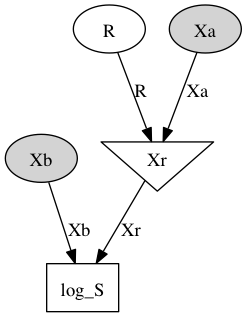
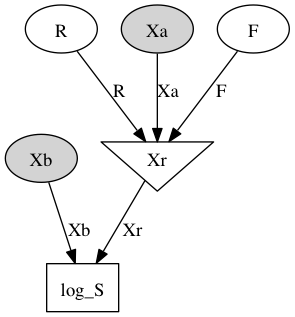
Update models to reflect same/flipped rather than same/different

diff --git a/lib/mental_rotation/model/hill_climbing_model.py b/lib/mental_rotation/model/hill_climbing_model.py
@@ -13,7 +13,7 @@ class HillClimbingModel(BaseModel):
     # Overwritten PyMC sampling methods
 
     def sample(self, verbose=0):
-        super(BaseModel, self).sample(iter=360, verbose=verbose)
+        super(BaseModel, self).sample(iter=720, verbose=verbose)
 
         if self._current_iter == self._iter: # pragma: no cover
             raise RuntimeError(
@@ -21,6 +21,7 @@ class HillClimbingModel(BaseModel):
 
     def draw(self):
         R = self.model['R'].value
+        F = self.model['F'].value
         log_S = self.model['log_S'].logp
 
         if self.direction is None:
@@ -43,7 +44,15 @@ class HillClimbingModel(BaseModel):
             self.model['R'].value = R + step
             new_log_S = self.model['log_S'].logp
             if new_log_S < log_S or np.allclose(new_log_S, log_S):
-                self.status = 'halt'
+                if F == 0:
+                    self.tally()
+                    self._current_iter += 1
+                    self.direction = None
+                    self.model['R'].value = 0
+                    self.model['F'].value = 1
+                
+                else:
+                    self.status = 'halt'
 
             else: # pragma: no cover
                 pass
@@ -51,22 +60,25 @@ class HillClimbingModel(BaseModel):
     ##################################################################
     # The estimated S function
 
-    def log_S(self, R):
-        return np.log(self.S(R))
+    def log_S(self, R, F):
+        return np.log(self.S(R, F))
 
-    def S(self, R):
+    def S(self, R, F):
+        Fi = self.F_i
+        match = Fi == F
+        
         R_ = self._wrap(R)
         Ri = self._wrap(self.R_i)
 
         Si = self.S_i
-        ix = np.argsort(Ri)
+        ix = np.argsort(Ri[match])
 
-        sRi = np.empty(Ri.size + 1)
-        sRi[:-1] = Ri[ix]
+        sRi = np.empty(Ri[match].size + 1)
+        sRi[:-1] = Ri[match][ix]
         sRi[-1] = 2 * np.pi
 
-        sSi = np.empty(Si.size + 1)
-        sSi[:-1] = Si[ix]
+        sSi = np.empty(Si[match].size + 1)
+        sSi[:-1] = Si[match][ix]
         sSi[-1] = sSi[0]
 
         S = np.interp(R_, sRi, sSi)
@@ -75,35 +87,36 @@ class HillClimbingModel(BaseModel):
     ##################################################################
     # Estimated dZ_dR and full estimate of Z
 
-    def log_dZ_dR(self, R):
-        return np.log(self.dZ_dR(R))
+    def log_dZ_dR(self, R, F):
+        return np.log(self.dZ_dR(R, F))
 
-    def dZ_dR(self, R):
+    def dZ_dR(self, R, F):
+        Fi = self.F_i
+        match = Fi == F
+
         R_ = self._wrap(R)
         Ri = self._wrap(self.R_i)
 
         dZ_dRi = self.dZ_dR_i
-        ix = np.argsort(Ri)
+        ix = np.argsort(Ri[match])
 
-        sRi = np.empty(Ri.size + 1)
-        sRi[:-1] = Ri[ix]
+        sRi = np.empty(Ri[match].size + 1)
+        sRi[:-1] = Ri[match][ix]
         sRi[-1] = 2 * np.pi
 
-        sdZ_dRi = np.empty(dZ_dRi.size + 1)
-        sdZ_dRi[:-1] = dZ_dRi[ix]
+        sdZ_dRi = np.empty(dZ_dRi[match].size + 1)
+        sdZ_dRi[:-1] = dZ_dRi[match][ix]
         sdZ_dRi[-1] = sdZ_dRi[0]
 
         dZ_dR = np.interp(R_, sRi, sdZ_dRi)
         return dZ_dR
 
-    @property
-    def log_Z(self):
-        return np.log(self.Z)
+    def log_Z(self, F):
+        return np.log(self.Z(F))
 
-    @property
-    def Z(self):
+    def Z(self, F):
         R = np.linspace(-np.pi, np.pi, 360)
-        dZ_dR = self.dZ_dR(R)
+        dZ_dR = self.dZ_dR(R, F)
         Z = np.trapz(dZ_dR, R)
         return Z
 
@@ -111,10 +124,16 @@ class HillClimbingModel(BaseModel):
     # Plotting methods
 
     def plot(self, ax):
-        Ri = self.R_i
-        Si = self.S_i
+        Fi = self.F_i
+        Ri0 = self.R_i[Fi == 0]
+        Si0 = self.S_i[Fi == 0]
+        Ri1 = self.R_i[Fi == 1]
+        Si1 = self.S_i[Fi == 1]
         R = np.linspace(-np.pi, np.pi, 360)
-        S = self.S(R)
-        self._plot(
-            ax, None, None, Ri, Si, R, S, None,
-            title="Linear interpolation for $S$")
+        S0 = self.S(R, F=0)
+        S1 = self.S(R, F=1)
+        ax.plot(R, S0, 'r-', label="Approx, F=0", lw=2)
+        ax.plot(Ri0, Si0, 'ro', markersize=5)
+        ax.plot(R, S1, 'b-', label="Approx, F=1", lw=2)
+        ax.plot(Ri1, Si1, 'bo', markersize=5)
+        ax.legend()

diff --git a/lib/mental_rotation/model/base_model.py b/lib/mental_rotation/model/base_model.py
@@ -23,8 +23,9 @@ class BaseModel(pymc.Sampler):
         self.model['Xb'] = model.make_Xi('Xb', X_b)
         self.model['R'] = model.make_R(
             self.opts['R_mu'], self.opts['R_kappa'])
+        self.model['F'] = model.make_F()
         self.model['Xr'] = model.make_Xr(
-            self.model['Xa'], self.model['R'])
+            self.model['Xa'], self.model['R'], self.model['F'])
         self.model['log_S'] = model.make_log_S(
             self.model['Xb'], self.model['Xr'], self.opts['S_sigma'])
 
@@ -55,6 +56,14 @@ class BaseModel(pymc.Sampler):
         return R
 
     ##################################################################
+    # Sampled F_i
+
+    @property
+    def F_i(self):
+        F = self.trace('F')[:self._current_iter]
+        return F
+
+    ##################################################################
     # Sampled S_i and the estimated S
 
     @property
@@ -66,17 +75,20 @@ class BaseModel(pymc.Sampler):
     def S_i(self):
         return np.exp(self.log_S_i)
 
-    def log_S(self, R):
+    def log_S(self, R, F):
         raise NotImplementedError
 
-    def S(self, R):
+    def S(self, R, F):
         raise NotImplementedError
 
     ##################################################################
     # Sampled dZ_dR (which is just S_i*p(R_i)) and full estimate of Z
 
     def get_log_dZ_dR(self):
-        return self.model['log_S'].logp + self.model['R'].logp
+        p_log_S = self.model['log_S'].logp
+        p_R = self.model['R'].logp
+        p_F = self.model['F'].logp
+        return p_log_S + p_R + p_F
 
     @property
     def log_dZ_dR_i(self):
@@ -87,18 +99,16 @@ class BaseModel(pymc.Sampler):
     def dZ_dR_i(self):
         return np.exp(self.log_dZ_dR_i)
 
-    def log_dZ_dR(self, R):
+    def log_dZ_dR(self, R, F):
         raise NotImplementedError
 
-    def dZ_dR(self, R):
+    def dZ_dR(self, R, F):
         raise NotImplementedError
 
-    @property
-    def log_Z(self):
+    def log_Z(self, F):
         raise NotImplementedError
 
-    @property
-    def Z(self):
+    def Z(self, F):
         raise NotImplementedError
 
     ##################################################################
@@ -106,13 +116,13 @@ class BaseModel(pymc.Sampler):
 
     @property
     def log_lh_h0(self):
+        log_Z = self.log_Z(0)
         p_Xa = self.model['Xa'].logp
-        p_Xb = self.model['Xb'].logp
-        return p_Xa + p_Xb
+        return log_Z + p_Xa
 
     @property
     def log_lh_h1(self):
-        log_Z = self.log_Z
+        log_Z = self.log_Z(1)
         p_Xa = self.model['Xa'].logp
         return log_Z + p_Xa
 
@@ -196,16 +206,15 @@ class BaseModel(pymc.Sampler):
     # Misc
 
     def print_stats(self):
-        print "log Z = %f" % self.log_Z
         print "log LH(h0) = %f" % self.log_lh_h0
         print "log LH(h1) = %f" % self.log_lh_h1
 
         llr = self.log_lh_h0 - self.log_lh_h1
         print "log LH(h0) / LH(h1) = %f" % llr
         if llr < 0: # pragma: no cover
-            print "--> ACCEPT hypothesis 1"
+            print "--> STOP and accept hypothesis 1 (flipped)"
         elif llr > 0: # pragma: no cover
-            print "--> REJECT hypothesis 1"
+            print "--> STOP and accept hypothesis 0 (same)"
         else: # pragma: no cover
             print "--> UNDECIDED"
 

diff --git a/lib/mental_rotation/model/gold_standard_model.py b/lib/mental_rotation/model/gold_standard_model.py
@@ -13,45 +13,54 @@ class GoldStandardModel(BaseModel):
 
     def sample(self, verbose=0):
         self.model['R'].value = -np.pi
-        super(BaseModel, self).sample(iter=361, verbose=verbose)
+        self.model['F'].value = 0
+        super(BaseModel, self).sample(iter=721, verbose=verbose)
 
     def draw(self):
+        self.model['F'].value = 0
         self.model['R'].value = self.model['R'].value + np.radians(1)
+        self.tally()
+        self._current_iter += 1
+        self.model['F'].value = 1
 
     ##################################################################
     # The estimated S function
 
-    def log_S(self, R):
-        return np.log(self.S(R))
+    def log_S(self, R, F):
+        return np.log(self.S(R, F))
 
-    def S(self, R):
-        ix = np.argsort(self.R_i)
-        Ri = self.R_i[ix]
-        Si = self.S_i[ix]
+    def S(self, R, F):
+        R_i = self.R_i
+        F_i = self.F_i
+        match = F_i == F
+        ix = np.argsort(R_i[match])
+        Ri = R_i[match][ix]
+        Si = self.S_i[match][ix]
         S = np.interp(self._unwrap(R), Ri, Si)
         return S
 
     ##################################################################
     # Estimated dZ_dR and full estimate of Z
 
-    def log_dZ_dR(self, R):
-        return np.log(self.dZ_dR(R))
+    def log_dZ_dR(self, R, F):
+        return np.log(self.dZ_dR(R, F))
 
-    def dZ_dR(self, R):
-        ix = np.argsort(self.R_i)
-        Ri = self.R_i[ix]
-        dZ_dRi = self.dZ_dR_i[ix]
+    def dZ_dR(self, R, F):
+        R_i = self.R_i
+        F_i = self.F_i
+        match = F_i == F
+        ix = np.argsort(R_i[match])
+        Ri = R_i[match][ix]
+        dZ_dRi = self.dZ_dR_i[match][ix]
         dZ_dR = np.interp(self._unwrap(R), Ri, dZ_dRi)
         return dZ_dR
 
-    @property
-    def log_Z(self):
-        return np.log(self.Z)
+    def log_Z(self, F):
+        return np.log(self.Z(F))
 
-    @property
-    def Z(self):
+    def Z(self, F):
         R = np.linspace(-np.pi, np.pi, 361)
-        dZ_dR = self.dZ_dR(R)
+        dZ_dR = self.dZ_dR(R, F)
         Z = np.trapz(dZ_dR, R)
         return Z
 
@@ -60,8 +69,8 @@ class GoldStandardModel(BaseModel):
 
     def plot(self, ax):
         R = np.linspace(-np.pi, np.pi, 361)
-        S = self.S(R)
-        self._plot(
-            ax, R, S, None, None, None, None, None,
-            title="Likelihood function",
-            legend=False)
+        S0 = self.S(R, F=0)
+        S1 = self.S(R, F=1)
+        ax.plot(R, S0, '-', color="#550000", label="Truth, F=0", lw=2)
+        ax.plot(R, S1, '-', color="#000055", label="Truth, F=1", lw=2)
+        ax.legend()

diff --git a/lib/mental_rotation/model/model.py b/lib/mental_rotation/model/model.py
@@ -73,6 +73,11 @@ def make_Xi(name, X):
     return Xi
 
 
+def make_F():
+    F = pymc.Bernoulli("F", p=0.5, value=0, observed=False)
+    return F
+
+
 def make_R(R_mu, R_kappa):
 
     def R_logp(value, mu=R_mu, kappa=R_kappa):
@@ -101,10 +106,12 @@ def make_R(R_mu, R_kappa):
     return R
 
 
-def make_Xr(Xa, R):
+def make_Xr(Xa, R, F):
     @pymc.deterministic
-    def Xr(Xa=Xa, R=R):
+    def Xr(Xa=Xa, R=R, F=F):
         Xr = Xa.copy()
+        if F == 1:
+            Stimulus2D._flip(Xr, np.array([0, 1]))
         Stimulus2D._rotate(Xr, np.degrees(R))
         return Xr
     return Xr
